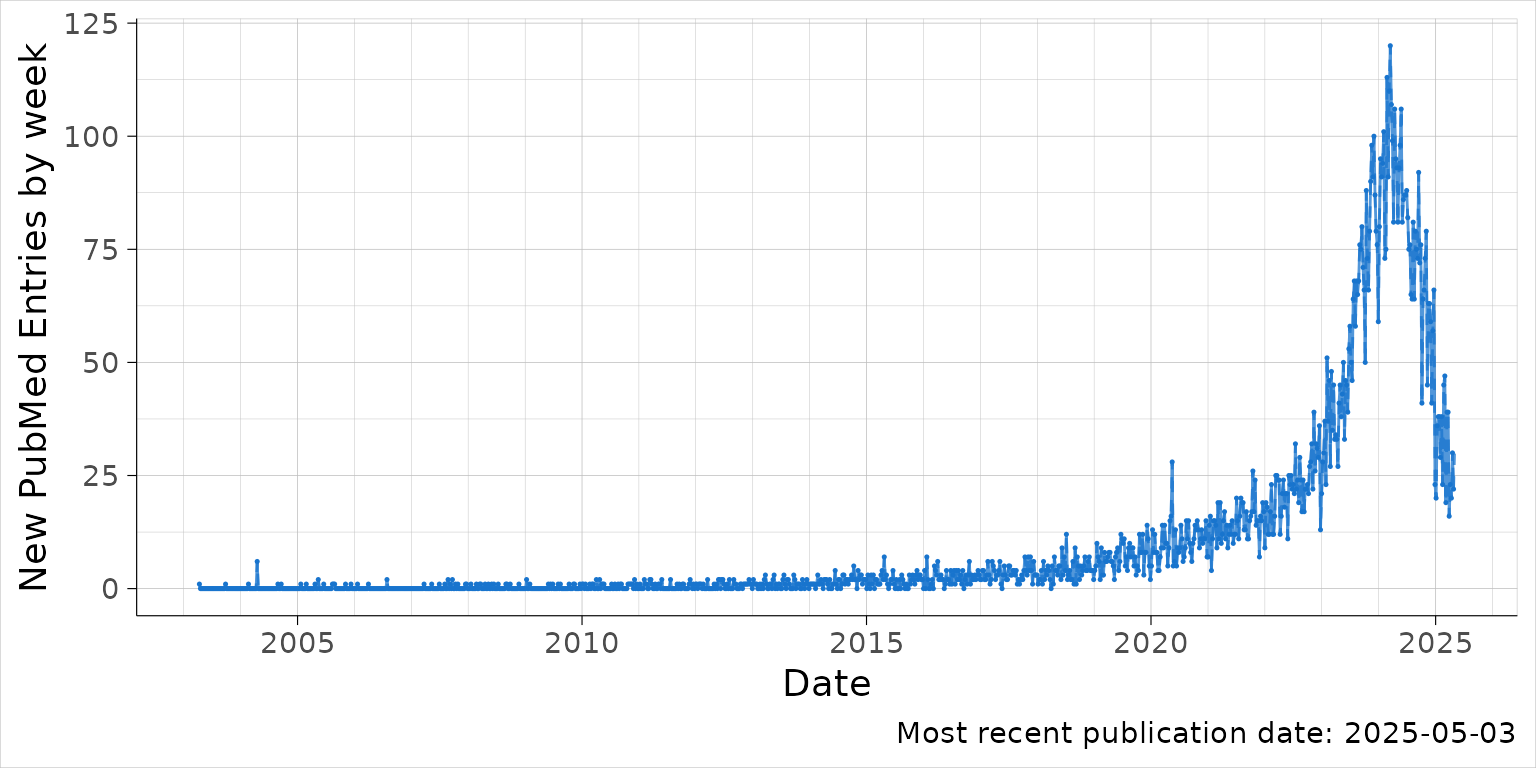
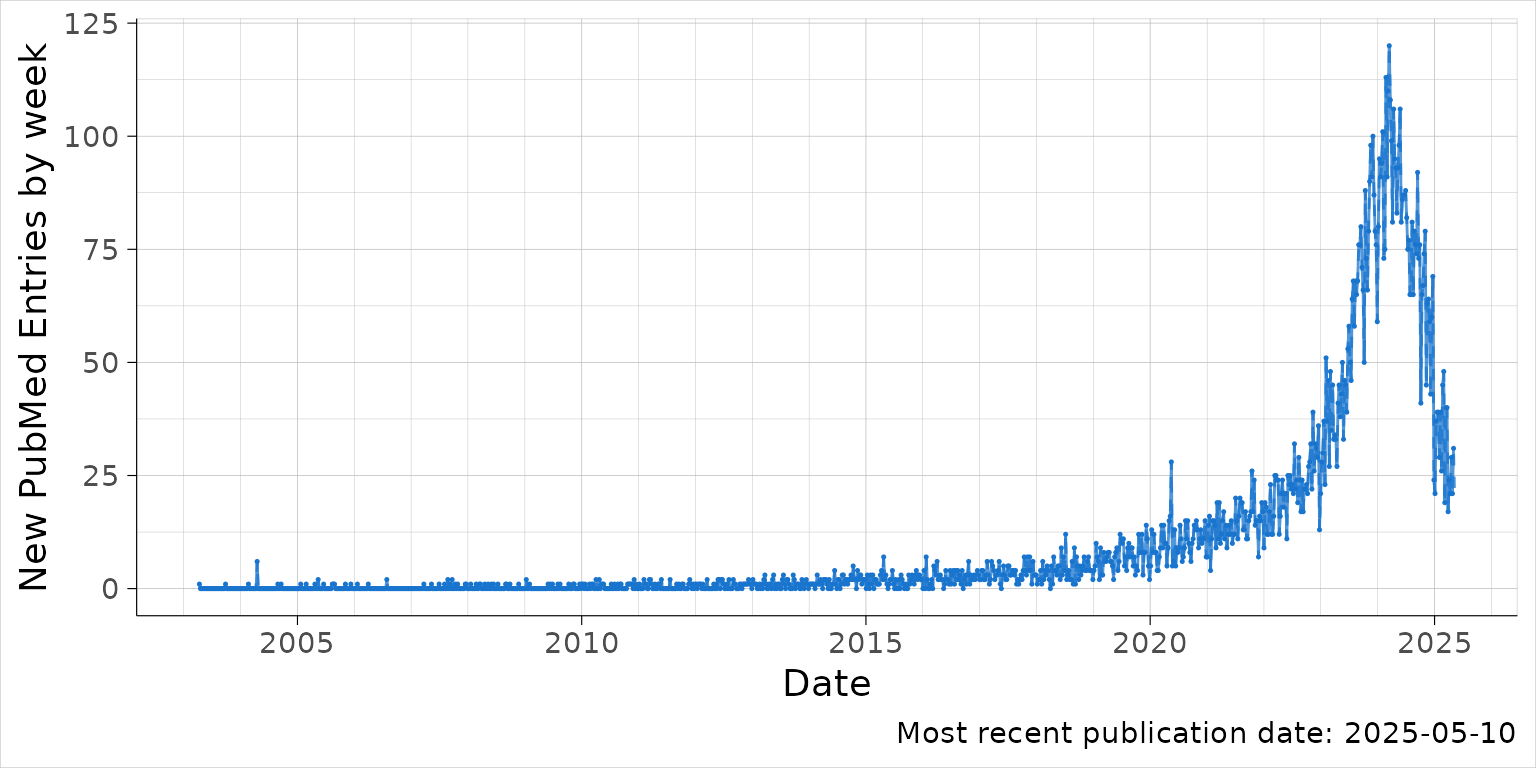
Deploying to gh-pages from @ explodecomputer/PubmedPlot@2b288125f63ce9491b4466d7c46d997aeb157f53 🚀

diff --git a/articles/mr.html b/articles/mr.html
@@ -192,11 +192,11 @@
 <span><span class="co">#&gt; Fetching records 4501 to 4899 </span></span>
 <span><span class="co">#&gt; Searching for year: 2025 </span></span>
 <span><span class="co">#&gt; Search term: "Mendelian randomisation" [Title] OR "Mendelian randomization" [Title] AND ("2025/01/01"[dp] : "2025/12/31"[dp]) </span></span>
-<span><span class="co">#&gt; Found 1779 articles matching the search term.</span></span>
+<span><span class="co">#&gt; Found 1824 articles matching the search term.</span></span>
 <span><span class="co">#&gt; Fetching records 1 to 500 </span></span>
 <span><span class="co">#&gt; Fetching records 501 to 1000 </span></span>
 <span><span class="co">#&gt; Fetching records 1001 to 1500 </span></span>
-<span><span class="co">#&gt; Fetching records 1501 to 1779</span></span>
+<span><span class="co">#&gt; Fetching records 1501 to 1824</span></span>
 <span><span class="va">b</span> <span class="op">&lt;-</span> <span class="fu"><a href="../reference/group_by_time_interval.html">group_by_time_interval</a></span><span class="op">(</span><span class="va">a</span><span class="op">)</span></span>
 <span><span class="va">p</span> <span class="op">&lt;-</span> <span class="fu"><a href="../reference/plot_time_interval.html">plot_time_interval</a></span><span class="op">(</span><span class="va">b</span><span class="op">)</span></span></code></pre></div>
 <div class="sourceCode" id="cb3"><pre class="downlit sourceCode r">
